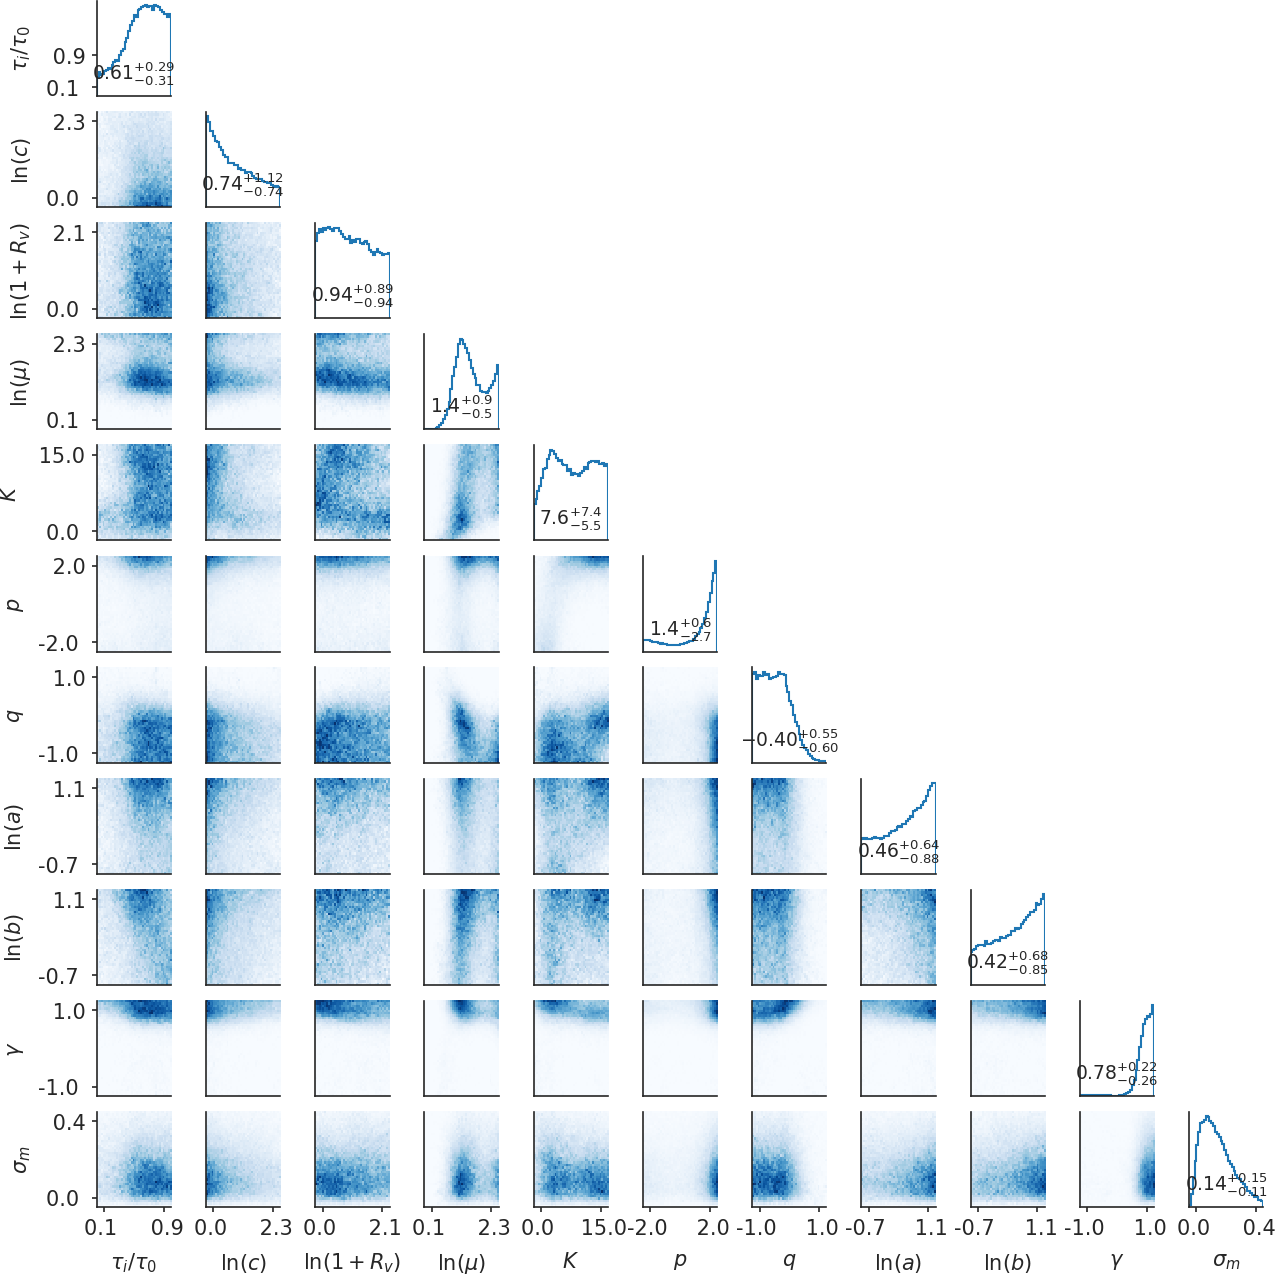
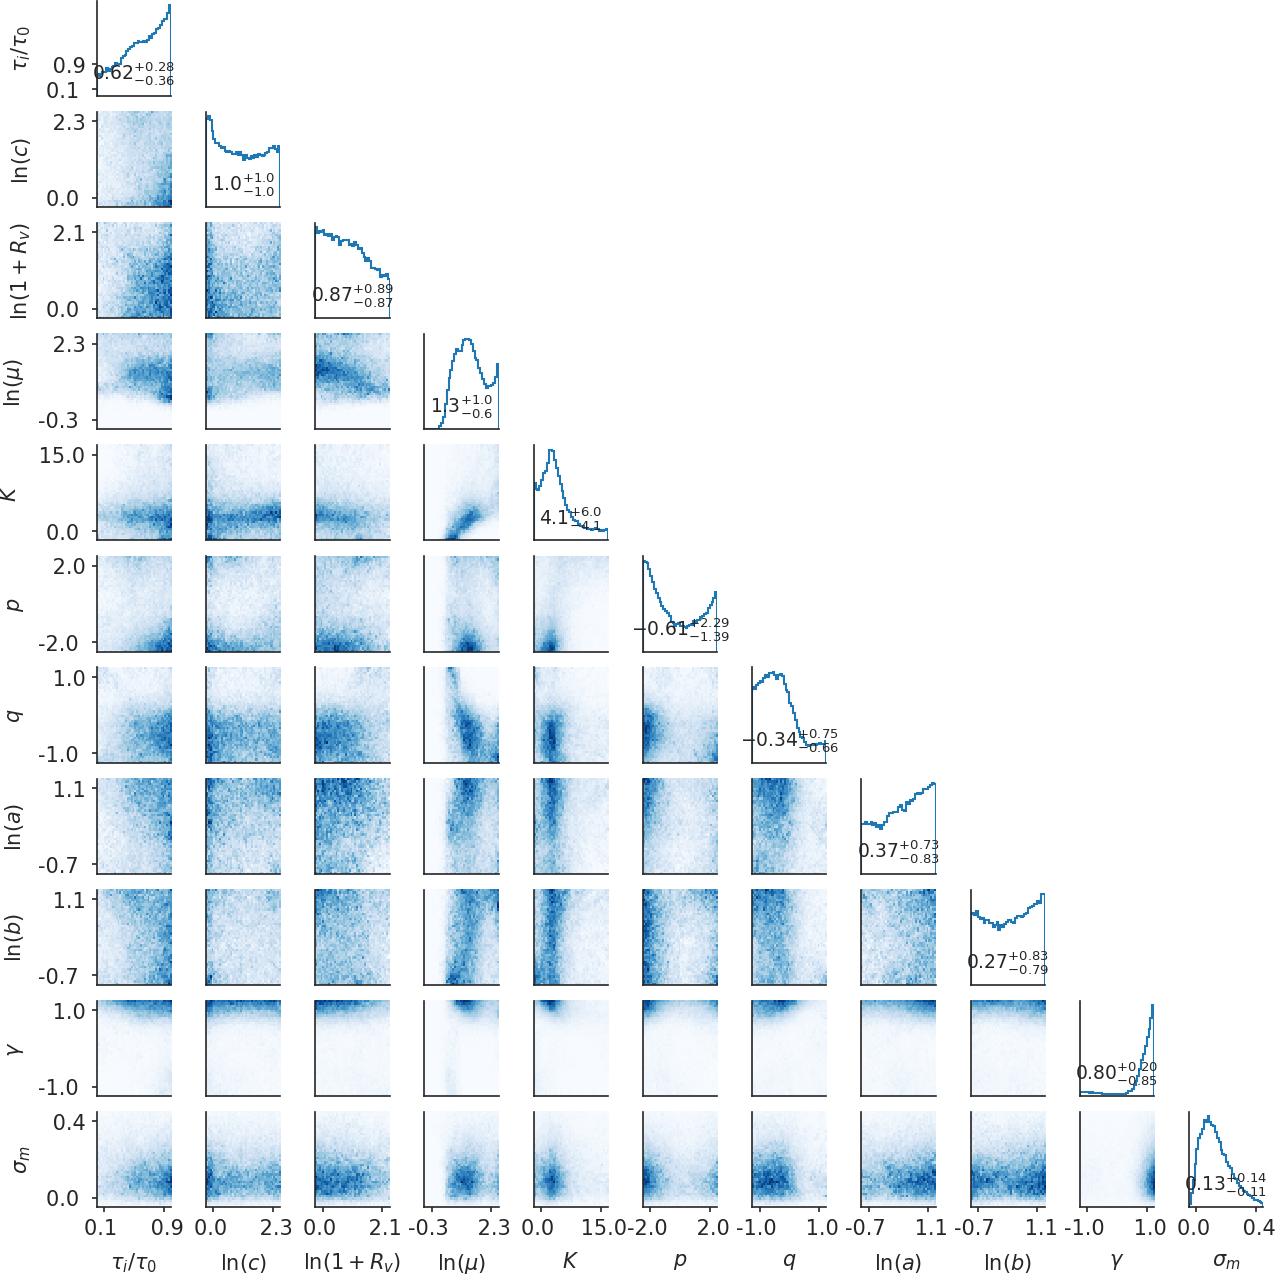
conclusion, caption +

diff --git a/chapters/simulation.tex b/chapters/simulation.tex
@@ -288,7 +288,7 @@ Absolute & $\frac{1}{2} \mu_0 \ln\left(\frac{T_A e^{y_b}+T_B e^{-y_b}}{T_A e^{-y
 \begin{figure}
 \centering
 \includegraphics{trento3d/trento3d_example}
-\caption{Initial entropy density in sample Pb+Pb (upper) and p+Pb (lower) events for cross sections of the $\eta=0$ and $x=0$ planes (left and right columns). Event is constructed using the relative skewness model in Table~\ref{tab:parametrization} with $\mu_0=1$, $\sigma_0=3$ and $\gamma_0=6$ along with midrapidity parameters from {Bernhard:2016tnd}.}
+\caption{Two sample events for Pb+Pb collision (top row) and p+Pb collision (bottom row). The left column and the right column slice the initial entropy density at middle rapidity and the $x=0$ plane respectively. The relative skewness parametrization is used with $\mu_0=1$, $\sigma_0=3$ and $\gamma_r=6$.}
 \label{fig:3d-example}
 \end{figure}
 
@@ -396,7 +396,8 @@ In the end, as a validation to this procedure, we will be using a set of high-li
 
 \begin{figure}
 \includegraphics[width=\textwidth]{trento3d/post_obs.pdf}
-\caption{}
+\caption{The posterior distribution of the observables after the fitting process. Blue and red stands for the results calibrated using the ``relative skewness'' and the ``absolute skewness'' ansatz respectively.
+From left to the right are charged particle pseudorapidity density in Pb+Pb collision, in p+Pb collision, and the rms of the $a_1$ coefficient in the two-particle pseudorapidity correlation decomposition. The lines in the right most figure shows that the rms $a_1$ is not very sensitive to the viscous effect in the hydrodynamic evolution.}
 \label{fig:trento:post_obs}
 \end{figure}
 
@@ -412,7 +413,7 @@ The hydrodynamic model and mini-jet production model provide a complementary pic
 \begin{figure}
 \centering
 \includegraphics[width=\textwidth]{trento3d/posterior.pdf}
-\caption{Posterior distributions of the model parameters, listed in Table~\ref{tab:parameters}, for the relative-skewness (blue lower diagonal) and absolute-skewness (red upper diagonal) models. The diagonal panels are the marginal likelihood distributions of individual model parameters, while off-diagonal panels are joint distributions for pairs of model parameters.}
+\caption{The posterior probability distribution of the model parameters, the colors distinguish the use of ``absolute skewness'' (red) and ``relative skewness'' ansatz. The diagonals are single parameter distribution, the off-diagonals are two-parameter joint distributions.}
 \label{fig:trento:posterior}
 \end{figure}
 
@@ -423,8 +424,7 @@ We will see later that this is because the two parametrizations, though take dif
 \begin{figure}
 \centering
 \includegraphics[width=.8\textwidth]{trento3d/post_dsdy}
-\caption{Applying parameters sampled from the posterior probability distribution to Eq.~\eqref{cgf} along with Eq.~\eqref{regulateEq}, this plot shows the resulting local entropy profile $ds/d\eta$ varying $T_A$ and $T_B$ from $0.2~\text{fm}^{-2}$ to $2.6~\text{fm}^{-2}$. The lines are the mean predictions and the bands denote $1\sigma$ model uncertainties.
-}
+\caption{The constrained functional form of the three-dimensional initial entropy deposition $s(T_A(\mathbf{x}_\perp), T_B(\mathbf{x}_\perp), \eta_s)$. $T_A$ and $T_B$ is varied from $0.2$ to $2.4$ fm${}^{-2}$. Colors distinguish the results from using ``absolute skewness'' (red) and ``relative skewness'' ansatz.}
 \label{fig:trento:post_dsdy}
 \end{figure}
 
@@ -478,12 +478,12 @@ We are able to describe flow measured by ALICE [] at mid-rapidity with a shear v
 \begin{figure}
 \centering
 \includegraphics[width=.7\textwidth]{trento3d/vn_cen}
-\caption{Elliptic and triangular flow cumulants $v_2\{2\}$ and $v_3\{2\}$ as a function of centrality calculated from 3+1D hybrid model simulations using constant specific shear viscosity $\eta/s=0.17$ and $0.19$ for relative- and absolute-skewness models respectively, zero bulk viscosity $\zeta/s=0$ and hydro-to-micro switching temperature $T_\text{sw}=154$~MeV.
-The initial condition parameters are selected from the Bayesian posterior.}
+\caption{Flow coefficients $v_2\{2\}$ (blue) and $v_3\{2\}$ (orange) are plotted as a function of centrality. The calculation uses a 3+1D viscous hydrodynamic-based model with constant $\eta/s=0.17$ and $0.19$ for ``relative skewness'' (solid) and ``absolute skewness'' (dashed) ansatz. $\zeta/s=0$ and the switching temperature is $T_\text{sw}=154$~MeV.
+The initial condition parameters are selected from the high-likelihood region of the posterior.}
 \label{fig:trento:vn_cen}
 \end{figure}
 
-\paragraph{Rapidity-dependent $v_n$} For the rapidity dependent flow figure \ref{fig:trento:vn_eta}, we used a larger $\eta/s=0.25--0.28$. 
+\paragraph{Rapidity-dependent $v_n$} For the rapidity dependent flow figure \ref{fig:trento:vn_eta}, we used a larger $\eta/s=0.25$--$0.28$. 
 This inconsistency is because the ALICE measurement extrapolate $p_T$ range for the rapidity-dependent flow down to 0, while the mid-rapidity  $p_T$ cut is $0.2 < p_T < 5.0$ GeV.
 It would not be a problem for the model to describe both with the same transport parameters, if the $p_T$ differential flow and $p_T$ differential particle spectra are both reproduced.
 However, due to the lack of a systematic tuning of the model parameters including both shear and bulk viscosity, the current mean $p_T$ is too high.
@@ -501,8 +501,8 @@ To systematically investigate all these effects, a future global parameter calib
 
 \begin{figure}
 \includegraphics[width=\textwidth]{trento3d/vn_eta}
-\caption{Pseudorapidity dependence of anisotropic flow coefficients $v_2\{2\}$, $v_3\{2\}$ and $v_2\{4\}$ (blue circle, green triangle and orange diamond shaped symbols) calculated from the hybrid model with constant specific shear viscosity $\eta/s=0.25$ and $0.28$ for relative- and absolute-skewness models respectively (solid and open symbols), compared to data from ALICE (smaller black symbols) with $p_T > 0$~GeV (extrapolated) in different centrality bins. 
-The bands for each theory calculation point indicate $1\sigma$ statistical error, while experimental bands/bars denote $1\sigma$ systematic and statistical errors respectively.}
+\caption{Pseudorapidity dependent flow coefficients $v_2\{2\}$ (blue circle), $v_3\{2\}$ (green triangle) and $v_2\{4\}$ (orange diamond).
+Constant $\eta/s=0.25$ and $0.28$ are used for ``relative skewness'' (closed symbol) and ``absolute skewness'' (open symbol) ansatz. Data is taken from the ALICE Collaboration [].}
 \label{fig:trento:vn_eta}
 \end{figure}
 
@@ -540,9 +540,7 @@ Given the present comparison, we conclude that the valid range of the model shou
 \includegraphics[width=.495\textwidth]{trento3d/evt_pln_decorr_near}
 \hfill
 \includegraphics[width=.495\textwidth]{trento3d/evt_pln_decorr_far}
-\caption{Left: The event-plane decorrelation for $n=2,3$ in different centrality bins with the reference particles from $3.0<|\eta^b|<4.0$.
-  Right: The same quantities as the left panel but with the reference particles from $4.4<|\eta^b|<5.0$. 
-  Theory bands indicate $1\sigma$ statistical error, while experimental bands/bars denote $1\sigma$ systematic and statistical errors respectively.}
+\caption{The $n=2$ (blue) and $n=3$ (orange) event-plane decorrelations obtained for ``relative skewness'' (lines with bands) and ``absolute skewness'' (lines with hatches) ansatz. The left and right plots uses different reference particle bins $3.0<|\eta_b|<4.0$ and $4.4<|\eta_b|<5.0$ respectively.}
 \label{fig:trento:epd}
 \end{figure}
 
@@ -576,10 +574,9 @@ This is a prediction that can be checked in future measurements to put further c
 
 \begin{figure}
 \includegraphics[width=\textwidth]{trento3d/smn}
-\caption{Top row: calculated $SC(4,2)$ and $SC(3,2)$ as functions of centrality compared to ALICE measurements, with the same 3D hybrid model set-up as used for Fig. \ref{fig:vn_cen}.
-  We conduct calculations in two kinematic ranges: $|\eta|<0.8$ is the pseudorapidity cut used by current the ALICE measurement and $2.5<|\eta|<3.5$ is our prediction for the symmetric cumulants away from mid-rapidity in the Pb+Pb system.
-  Bottom row: $SC(m,n)$ normalized by $\langle v_m^2\rangle\langle v_n^2\rangle$ for two two kinematic ranges.
-  The left column and right column show results using relative- and absolute-skewness respectively.
+\caption{The symmetric cumulants (top row) and normalization symmetric cumultants (bottom row) obtained from the ``relative skewness'' (left column) and the ``absolute skewness'' (right column) ansatz.
+$SC(4,2)$ (blue) and $SC(3,2)$ (green) are shown as functions of centrality. The experimental measurements at middle rapidity (black symbols) is taken from [].
+The calculations are performed at both middle rapidity $|\eta|<0.8$ (solid lines) and forward/backward rapidity $2.5<|\eta|<3.5$ (dashed lines).
 }
 \label{fig:trento:smn} 
 \end{figure}

diff --git a/chapters/conclusion.tex b/chapters/conclusion.tex
@@ -17,12 +17,10 @@ The exact location of the separation scale is then treated as an uncertainty of 
 
 Finally, we apply the Bayesian analysis to infer the model parameter distribution by comparing to heavy flavor measurements at both RHIC and the LHC.
 The model parameters includes uncertainties such as in-medium coupling strength, energy loss starting time, match scale between vacuum and medium-induced shower, diffusion versus scattering model, as well as parametrized deviations from weakly coupled calculations.
-The calibrated parameters is able to describe the experimental obserables within 30\% uncertainty.
-This level of agreement is still not enough to make the best use of future high-precision measurements, and we shall listed a few possible improvements for future studies in the end.
 
 \begin{figure}
 \centering
-\includegraphics[width=.7\textwidth]{qhat_posterior_3D.png}
+\includegraphics[width=.8\textwidth]{qhat_posterior_3D.png}
 \caption{}
 \label{fig:conlusion}
 \end{figure}
@@ -37,13 +35,21 @@ Future study with improved flavor dependence may be needed to understand the imp
 In the current present calibration, the effective in-medium strong coupling constant is about $0.3$, and only contribute a small fraction of the extracted $\hat{q}$ parameter.
 The rest comes from the parametric contribution whose origin can be either perturbative or non-perturbative; either way, it suggests the necessity to model beyond leading order physics.
 
-Considering the advent of future high-precision hard probe measurements in heavy-ion collisions,
-we summarize a few points of improvements that may help to reduce or estimate the theoretical and modeling uncertainty of hard probes application.
+In conclusion, a transport modeling with perturbative based parton evolution with a parametric probe-medium interaction term is able to describe a wide range of open heavy flavor data to about 30\% level of accuracy.
+The heavy quark transport properties as function of energy and temperature is consistent with early phenomenological studies and lattice calculation.
+The present level model accuracy is still not enough to make the best use of future high-precision hard probe measurements in heavy-ion collisions []. 
+We therefore summarize a few points of improvements in the end which may help to reduce or estimate the theoretical and modeling uncertainties.
 \begin{itemize}
-\item An interpolation formula between vacuum and medium-induced radiation
-\item Correlation among multiple emissions in the presence of medium.
-\item Off equilibrium correction to the linearized transport equation.
-\item A calibration with simultaneous tuning bulk and hard sector.
-\item The use of less Glauber-model-dependent observables.
+\item An interpolation formula between vacuum and medium-induced radiation. A calculation that connects virtuality evolution with in-medium time evolution will help to eliminated the matching scale uncertainty. Though for the present observable and $p_T$ range its effect is not strong, its treatment may impact more delicate jet observables.
+\item Correlation among multiple emissions in the presence of medium. We have been neglecting the correlation among subsequent emissions in the ``modified transport model''. In the infinite medium limit, this is because the probability of overlapping emissions scales as $\tau_{1,f} R(\omega_2) \sim \tau_{1,f} \alpha_s/\tau_{2,f}$ which is suppressed by $\alpha_s$. But this higher order effect can be important since the phenomenological $\alpha_s$ is not small. There has been ongoing studies on this subject.
+\item Off equilibrium correction to the linearized transport equation. One essential assumption in linearized transport model is that medium partons follow the local thermal distributions, even though the hydrodynamics is propagated with viscous corrections. In fact, the viscous correction and the momentum space anisotropy can be very large at early times of the hydrodynamic evolution. One need to understand how these off-equilibrium effects changes the interpretation of the transport parameter one extracted assuming full thermal equilibrium of partons.
 \item Dynamical hadronization model and improved treatment of energy loss in the hadronic stage.
+Our current hadronization model has the problem of pinching long distance physics into a sudden process. 
+At low-$p_T$, the sudden recombination model breaks the detailed balance of the transport model and treating recombination model in a dynamical way would be more suitable.
+At high-$p_T$, the problem is more severe, as the hadronization time scale is dilatation by the large boost. 
+Moreover, the hadronic system near $T_c$ is still very dense, and it is inconsistent to apply the vacuum fragmentation function at the moment $T\sim T_c$.
+One possible solution for those high-$p_T$ heavy quarks (the recombination process is negligible) is to continue their partonic transport into the hadronic phase, and finally apply the vacuum fragmentation function when the system is dilute enough.
+Meanwhile, one can also study the energy loss in the dense hadronic system to extend the extracted transport parameter to the region below $T_c$.
+\item A calibration with simultaneous tuning bulk and hard sector. The bulk medium calibration is performed by a separate analysis. With future high precision hard probe measurements, a simultaneous calibration of of both soft and hard sector would be interesting.
+For example, we found that the number of binary collision as function of centrality is quite sensitive to the proton shape modeling in the Monte-Carlo Glauber model. The sensitivity of hard production to the number of binary collision may help the soft sector to improve the proton shape modeling. In turn, a better calibrated medium help to reduce the uncertainty in the hard parton energy loss.
 \end{itemize}

diff --git a/chapters/Introduction.tex b/chapters/Introduction.tex
@@ -90,7 +90,7 @@ Nevertheless, a pseudo critical temperature is defined to be $T_c \approx 150 $ 
 \begin{figure}
     \centering
     \includegraphics[width=.8\textwidth]{phase-diagram.png}
-    \caption{Caption}
+    \caption{The (partly projected) phase-diagram of the nuclear matter from reference []. The horizontal variable is Baryon chemical potentail $\mu_B$ and the vertical variable is temperature $T$. The red and green trajectories indicates the reachable regions by the heavy-ion program at the LHC and RHIC.}
     \label{fig:phase-diagram}
 \end{figure}
 
@@ -104,7 +104,7 @@ At higher chemical potential and low temperature, another phase of nuclear matte
 \begin{figure}
     \centering
     \includegraphics[width=.8\textwidth]{qcd-eos.png}
-    \caption{Caption}
+    \caption{The lattice equation of state for 2+1 flavor QCD taken from reference []. The rescaled pressure, energy density and entropy density as function of temperature at zero chemical potential are shown as red, blue and green bands. The dashed lines indicates non-interaction (Stephan-Boltzmann) limit and the solid lines show the expected values from a hadron resonance gas. The yellow band is the region of pseudo-critical temperature.}
     \label{fig:qcd_eos}
 \end{figure}
 
@@ -191,7 +191,8 @@ This is in contrary to a weakly coupled gas of quarks and gluons that emits inde
 \begin{figure}
 \centering
 \includegraphics[width=.6\textwidth]{ALICE-chg-vn.png}
-\caption{•}
+\caption{The momentum anisotropy coefficient $v_2$ estimated from multi-particle correlation for charged particle from the ALICE collaboration [].
+The hydrodynamic-based calculations [] (lines) very well explains the centrality dependence of the second (red), third (blue) and fourth (green) order coefficients at different beam energies.}
 \label{fig:intro:vn}
 \end{figure}
 
@@ -268,7 +269,7 @@ Though there has also been proposal that takes the advantage of this short life-
 \begin{figure}
 \centering
 \includegraphics[width=.7\textwidth]{CMS-HF.png}
-\caption{}
+\caption{The nuclear modification factor $R_{AA}(p_T)$ of charged hadron (gray), D meson (red), B meson (blue), and $b$-decayed D meson (red), $b$-decayed J$/\Psi$ (purple) measured by the CMS collaboration [].}
 \label{fig:intro:Raa}
 \end{figure}
 
@@ -281,7 +282,7 @@ Therefore, the number of heavy-flavor particles is almost conserved from the beg
 \begin{figure}
 \centering
 \includegraphics[width=\textwidth]{ALICE-CMS-D-vn.pdf}
-\caption{}
+\caption{The charged pion (red) and D meson momentum anisotropy measured by the ALICE Collaboration (black) and the CMS Collaboration (green). Left and right panels show the results for 10-30\% centrality and 30-50\% centrality respectively.}
 \label{fig:intro:D-vn}
 \end{figure}
 
